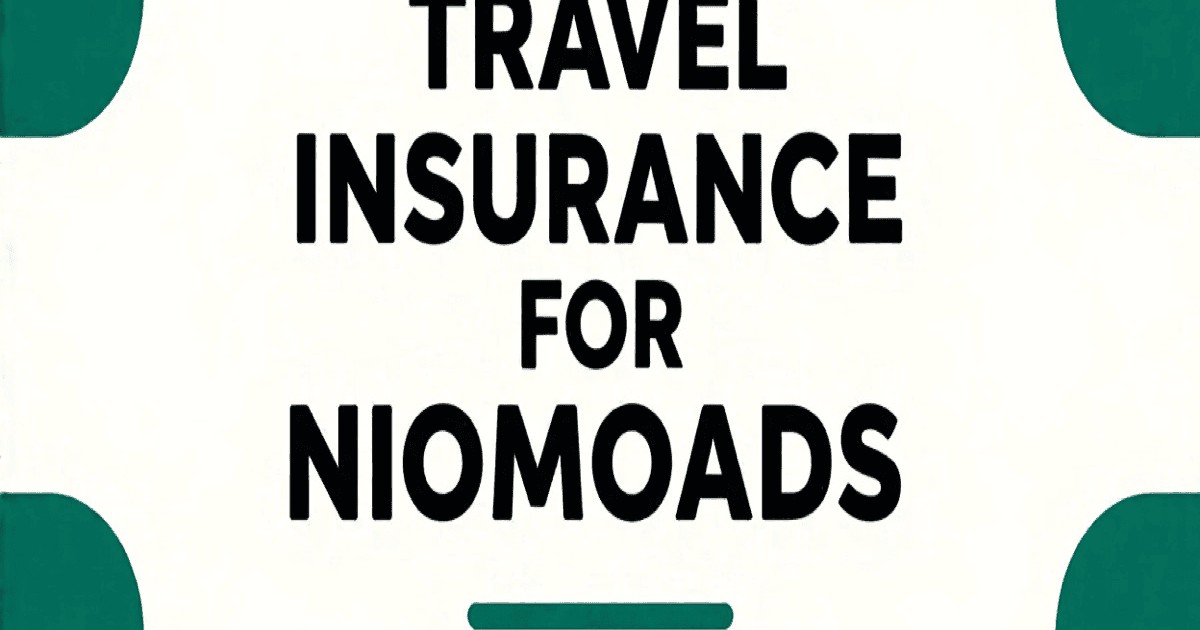
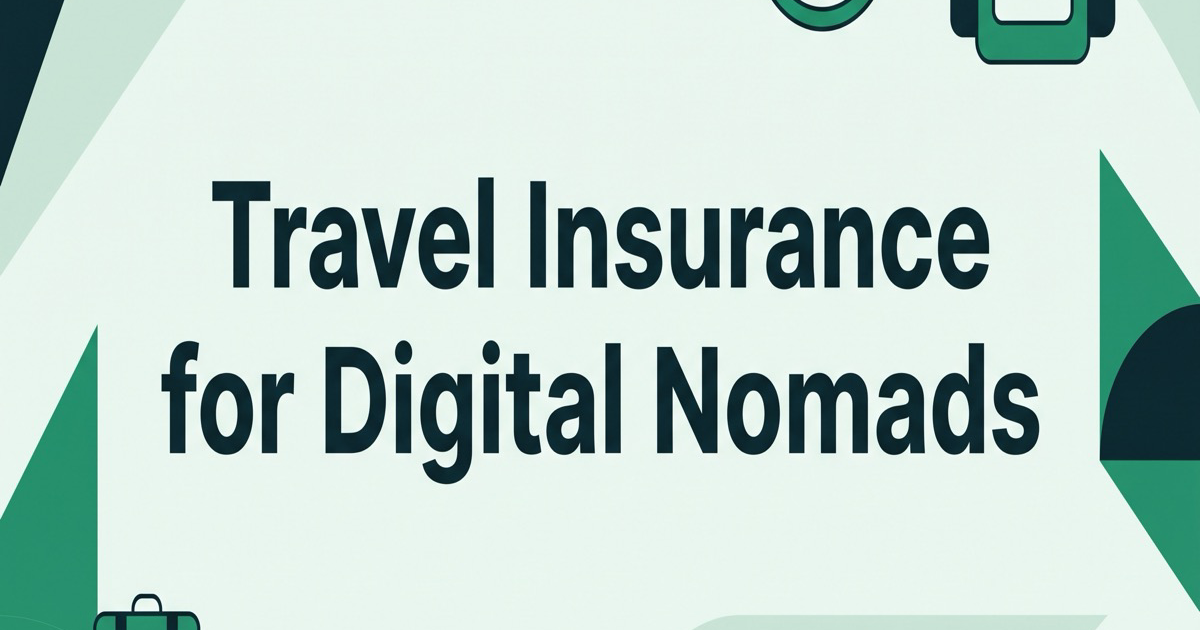
FIX(covers): regenerate 4 covers whose artwork misspelled the title
A vision pass over all 20 published covers (contact sheets, 2 cols x 3 rows) found
text defects on four of them — the image models were inventing and mis-spelling copy:

  budget-travel-accommodation-hacks   'BUDJGET TRAVEL HACKS'   -> Budget Travel Accommodation Hacks
  feie-guide-for-digital-nomads       'FEIE GUIDE FOR NOMLADS' -> FEIE Guide for Digital Nomads
  travel-insurance-for-digital-nomads 'FOR NIOMOAADS'          -> Travel Insurance for Digital Nomads
  best-esim-plans-for-digital-nomads  invented a 3-row comparison table whose data
                                      units read '10GR/Month' (not GB)

Root cause was the prompt: 'Title: "X"' left the models free to add whatever else they
liked. _cover_prompt() now states the headline is the ONLY text in the image, spelled
exactly as written, and forbids extra words/labels/tables/units. All four were
regenerated through the provider chain (Cake is still at its weekly cap, so these came
from nano-banana-2) and read back with the vision tool: every word now correct and the
eSIM cover carries no table at all.

Lesson encoded in the prompt docstring and the audit skill: never call a cover shipped
without reading the text back.

diff --git a/engine/publish.py b/engine/publish.py
@@ -311,12 +311,23 @@ def polish_article(
 # ----------------------------------------------------------------------------
 
 def _cover_prompt(title: str) -> str:
+    """Cover-art prompt.
+
+    Hard-won (2026-09-19): without an explicit "this is the only text" clause the
+    image models invent extra copy — a comparison table whose data units came back
+    as "10GR/Month" instead of GB — and they mis-spell the headline itself
+    ("BUDJGET TRAVEL HACKS", "NOMLADS", "NIOMOAADS" all shipped on published covers).
+    Naming the headline as the sole text and demanding exact spelling is the cheap
+    mitigation; every new cover still gets read back with a vision check before it
+    is called shipped.
+    """
     return (
-        f"Professional blog article cover image, 1200x630. Title: \"{title}\". "
-        "Clean modern layout, bold readable title text centered, subtle geometric "
-        "or travel-themed background with green (#27976d) and dark ink tones, "
-        "minimalist flat vector style, generous margins, important content centered. "
-        "No people, no watermarks, no logos."
+        f"Professional blog article cover image, 1200x630. The ONLY text anywhere in the "
+        f"image is this headline, spelled exactly as written, in bold readable type: "
+        f"\"{title}\". Do not add any other words, labels, tables, numbers, units, icons "
+        "with text, or logos. Clean modern layout, subtle geometric or travel-themed "
+        "background with green (#27976d) and dark ink tones, minimalist flat vector "
+        "style, generous margins, important content centered. No people, no watermarks."
     )
 
 
